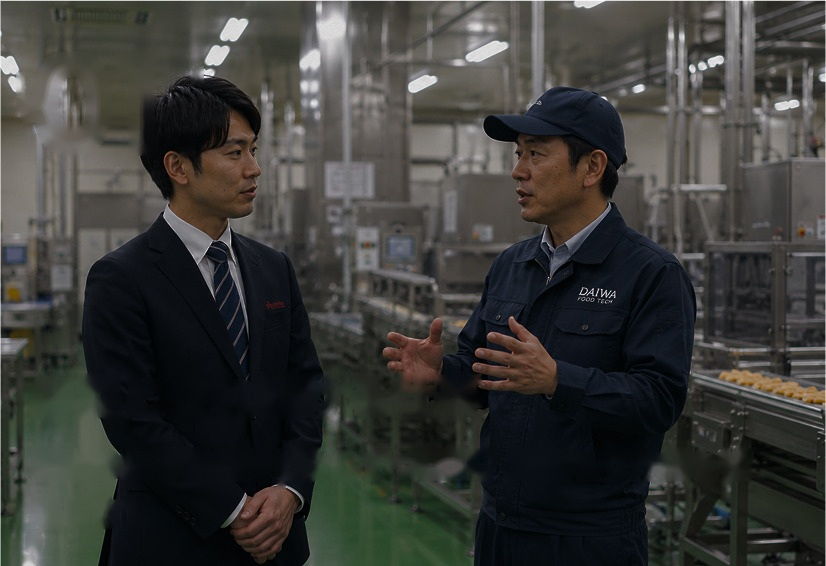
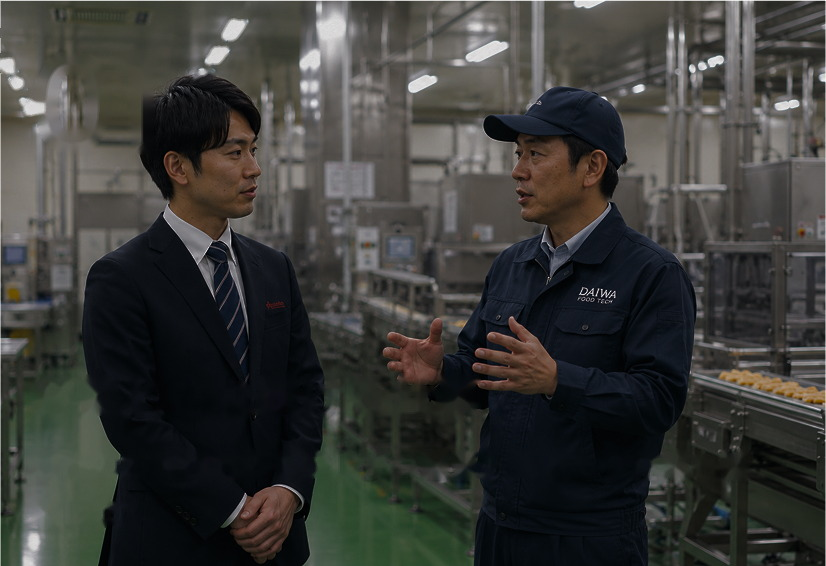
fix: 関係図の円の欠けと、写真の文字消しによるにじみを修正
## 円の上が切れていた

「営業の役割」02 の関係図は、切り出し範囲が上の円を 25px ほど
切っていた。3つの円が完全に収まる範囲（PC 530×476／SP 503×477）で
切り直し、CSS 側の配置も完成デザインの実測値に合わせた。
円の位置・大きさは完成画像と 1px 以内で一致する。

## 文字消しのにじみ

写真に焼き込まれた文字を消す際、文字の外接矩形ごと inpaint していたため、
文字が乗っていない部分の写真（窓・トラック・作業風景）まで潰れて
大きなにじみになっていた。

やり方を変え、
  1. 文字（と影）の画素だけを細いマスクにする
  2. 建物などの構造がある所は周囲の構造を引き継ぐ inpaint
  3. 空のようになめらかな面はピラミッド補間で完全になめらかに埋める
の3段階で消し直した。

会社紹介の写真は、文字が2階の窓に重なっていて復元できなかったため、
同じ写真が使われている SP 版の該当部分をポアソン合成で移植した。
SP の「働く魅力」カードは、修正済みの PC 版カードから切り出し直した。

対象：会社紹介の写真、働く魅力 01〜04（PC・SP）、SP のファーストビュー、
SP の会社紹介。求む／社員ストーリー／営業の役割の写真はにじみが
見られなかったため据え置き。

Claude-Session: https://claude.ai/code/session_01LvmqaLhaXmSKR2YyibuZLe

diff --git a/src/components/SalesRole.module.css b/src/components/SalesRole.module.css
@@ -55,7 +55,16 @@
 }
 
 .visual img { width: 100%; height: 100%; object-fit: cover; }
-.item:nth-child(2) .visual img { object-fit: contain; width: 331.5px; height: 234.5px; flex: none; }
+/* 関係図は3つの円が完全に収まる大きさで、写真の下端に合わせて置く */
+.item:nth-child(2) .visual img {
+  position: relative;
+  left: 1px;
+  top: 1.5px;
+  width: 265px;
+  height: 238px;
+  object-fit: contain;
+  flex: none;
+}
 /* 中央カラムだけ、完成デザインでは本文がカラム左端より少し内側から始まる */
 .item:nth-child(2) .title,
 .item:nth-child(2) .body { margin-left: 8.5px; }
@@ -101,7 +110,13 @@
   .visual { width: 100%; height: auto; display: block; }
   .pc { display: none; }
   .sp { display: block; width: 100%; height: auto; }
-  .item:nth-child(2) .visual .sp { object-fit: contain; width: 100%; height: auto; }
+  .item:nth-child(2) .visual .sp {
+    width: 335.6px;
+    max-width: none;
+    height: auto;
+    margin-left: 2px;
+    object-fit: contain;
+  }
 
   .item:nth-child(2) .title,
   .item:nth-child(2) .body { margin-left: 0; }

diff --git a/src/components/SalesRole.tsx b/src/components/SalesRole.tsx
@@ -30,8 +30,8 @@ export default function SalesRole() {
                 </>
               ) : (
                 <>
-                  <Image className={s.pc} src="/assets/role/role-02-diagram.png" alt="顧客・営業・技術者の関係図" width={634} height={450} sizes="(max-width:768px) 100vw, 317px" />
-                  <Image className={s.sp} src="/assets/sp/role-02-diagram.png" alt="" width={502} height={432} sizes="100vw" />
+                  <Image className={s.pc} src="/assets/role/role-02-diagram.png" alt="顧客・営業・技術者の関係図" width={530} height={476} sizes="(max-width:768px) 100vw, 265px" />
+                  <Image className={s.sp} src="/assets/sp/role-02-diagram.png" alt="" width={503} height={477} sizes="100vw" />
                 </>
               )}
             </div>
